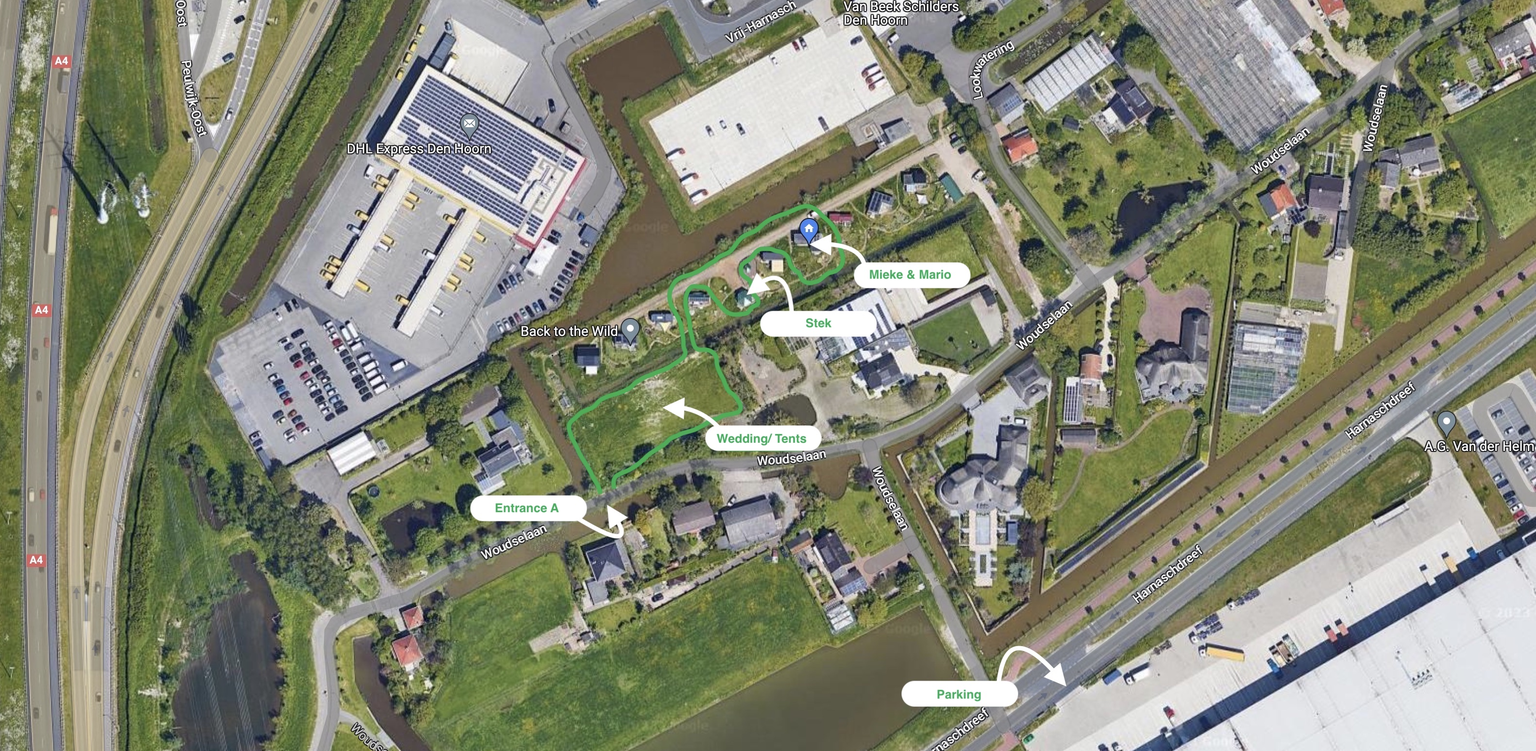
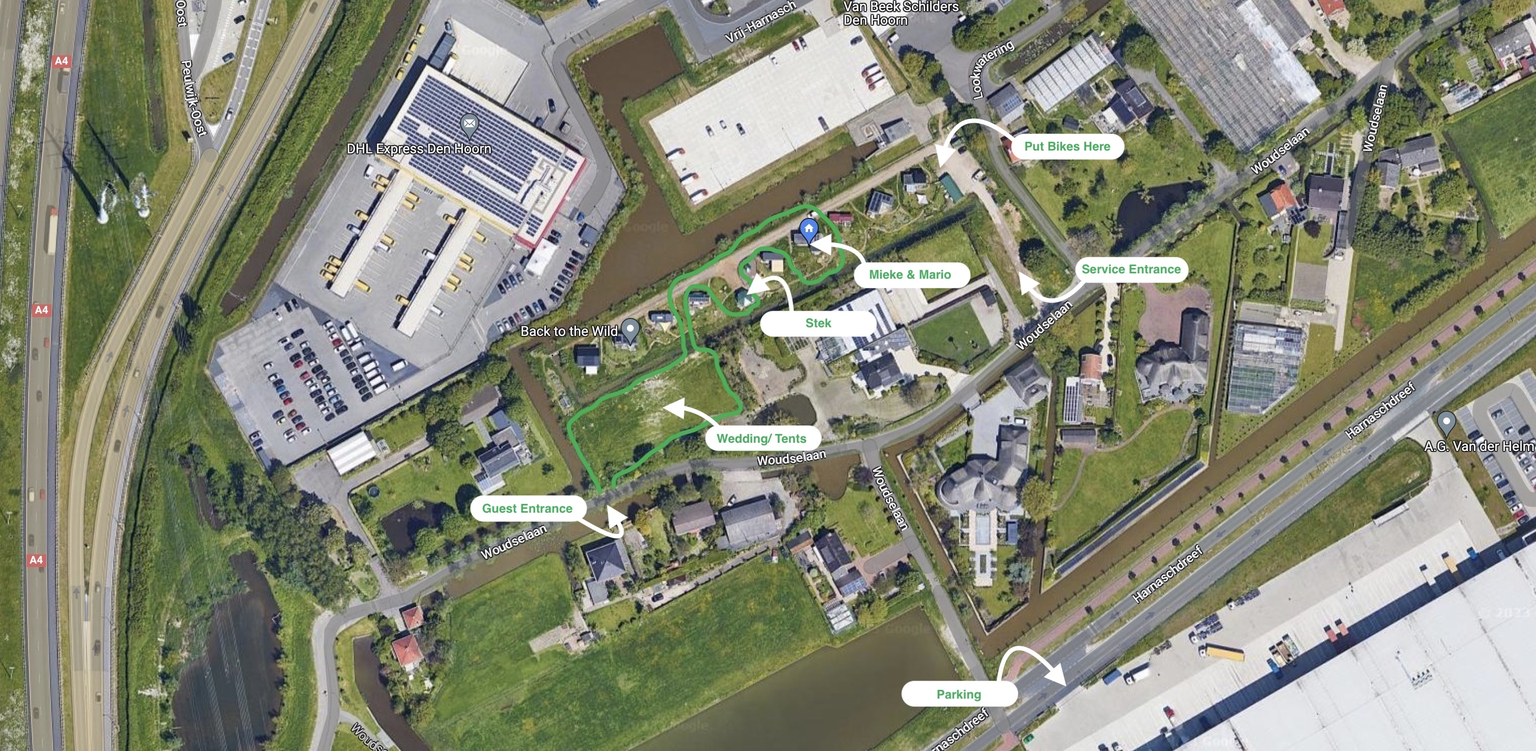
adjusted location map links

diff --git a/0d0b4267be8885ac8aae5358dab94d6da880d184/index.html b/0d0b4267be8885ac8aae5358dab94d6da880d184/index.html
@@ -409,7 +409,27 @@
 				<div class="col-md-8 col-md-offset-2 text-center fh5co-heading animate-box">
 					<span>How to get where you need to be</span>
 					<h2><a id="wedding_pictures">Location & Parking</a></h2>
-					<p>Here an interactive Map to also guide you last minute to the location</p>
+					<p>So many things can happen in the last minute preparations before the wedding. 
+						The trouser might need last minute emergency fixing, you can't find your phone, or the car key is lost.
+						So we provided a map to guide you last minute.</p>
+					<div class="display-tc animate-box" data-animate-effect="fadeIn">
+						<a href="https://goo.gl/maps/fM6K14XneFaoZWQ46" target="_blank" class="btn btn-default btn-sm" style="color:#0aad56">Guest Entrance</a>
+						<a href="https://goo.gl/maps/GoE8yxkFSUTauMd79" target="_blank" class="btn btn-default btn-sm" style="color:#0aad56">Service Entrance</a>
+						<a href="https://goo.gl/maps/18uLuB4NAS4XukkQ6" target="_blank" class="btn btn-default btn-sm" style="color:#0aad56">Parking - Bikes</a>
+						<a href="https://goo.gl/maps/73cBzGHuKyq5ciZh8" target="_blank" class="btn btn-default btn-sm" style="color:#0aad56">Parking - Cars</a>
+					</div>
+					<!-- <div class="overlay"></div>
+					<div class="container">
+						<div class="row">
+							<div class="col-md-8 col-md-offset-2 text-center">
+								<div class="display-t">
+									<div class="display-tc animate-box" data-animate-effect="fadeIn">
+										<a href="https://goo.gl/maps/fM6K14XneFaoZWQ46" target="_blank" class="btn btn-default btn-sm">Entrance A</a>
+									</div>
+								</div>
+							</div>
+						</div>
+					</div> -->
 					<!-- <div id="fh5co-event" class="fh5co-bg" style="background-image:url(images/location.jpg);">
 						<div class="overlay"></div>
 						<div class="location">Location</div>
@@ -418,7 +438,7 @@
 			</div>
 		</div>
 		<div class="location-container">
-			<img src="images/location_map.jpg" alt="location" width="100%">
+			<a href="https://goo.gl/maps/fM6K14XneFaoZWQ46" target="_blank"><img src="images/location_map.jpg" alt="location" width="100%"></a>
 			<!-- <iframe src="https://www.google.com/maps/embed?pb=!1m18!1m12!1m3!1d2455.9443933528396!2d4.31262081597109!3d52.00789118180606!2m3!1f0!2f0!3f0!3m2!1i1024!2i768!4f13.1!3m3!1m2!1s0x47c5b43f3ea68ef3%3A0x51a60d6dc17fc05f!2sWoudselaan%2012d%2C%202635%20CH%20Den%20Hoorn!5e0!3m2!1sen!2snl!4v1680358512410!5m2!1sen!2snl" width="600" height="450" style="border:0;" allowfullscreen="" loading="lazy" referrerpolicy="no-referrer-when-downgrade"></iframe> -->
 			<!-- <div class="entranceA"><a href="https://goo.gl/maps/Dn5KVMxbWFyzDGTZ7" target="_blank">Entrance A</a></div> -->
 		</div>
